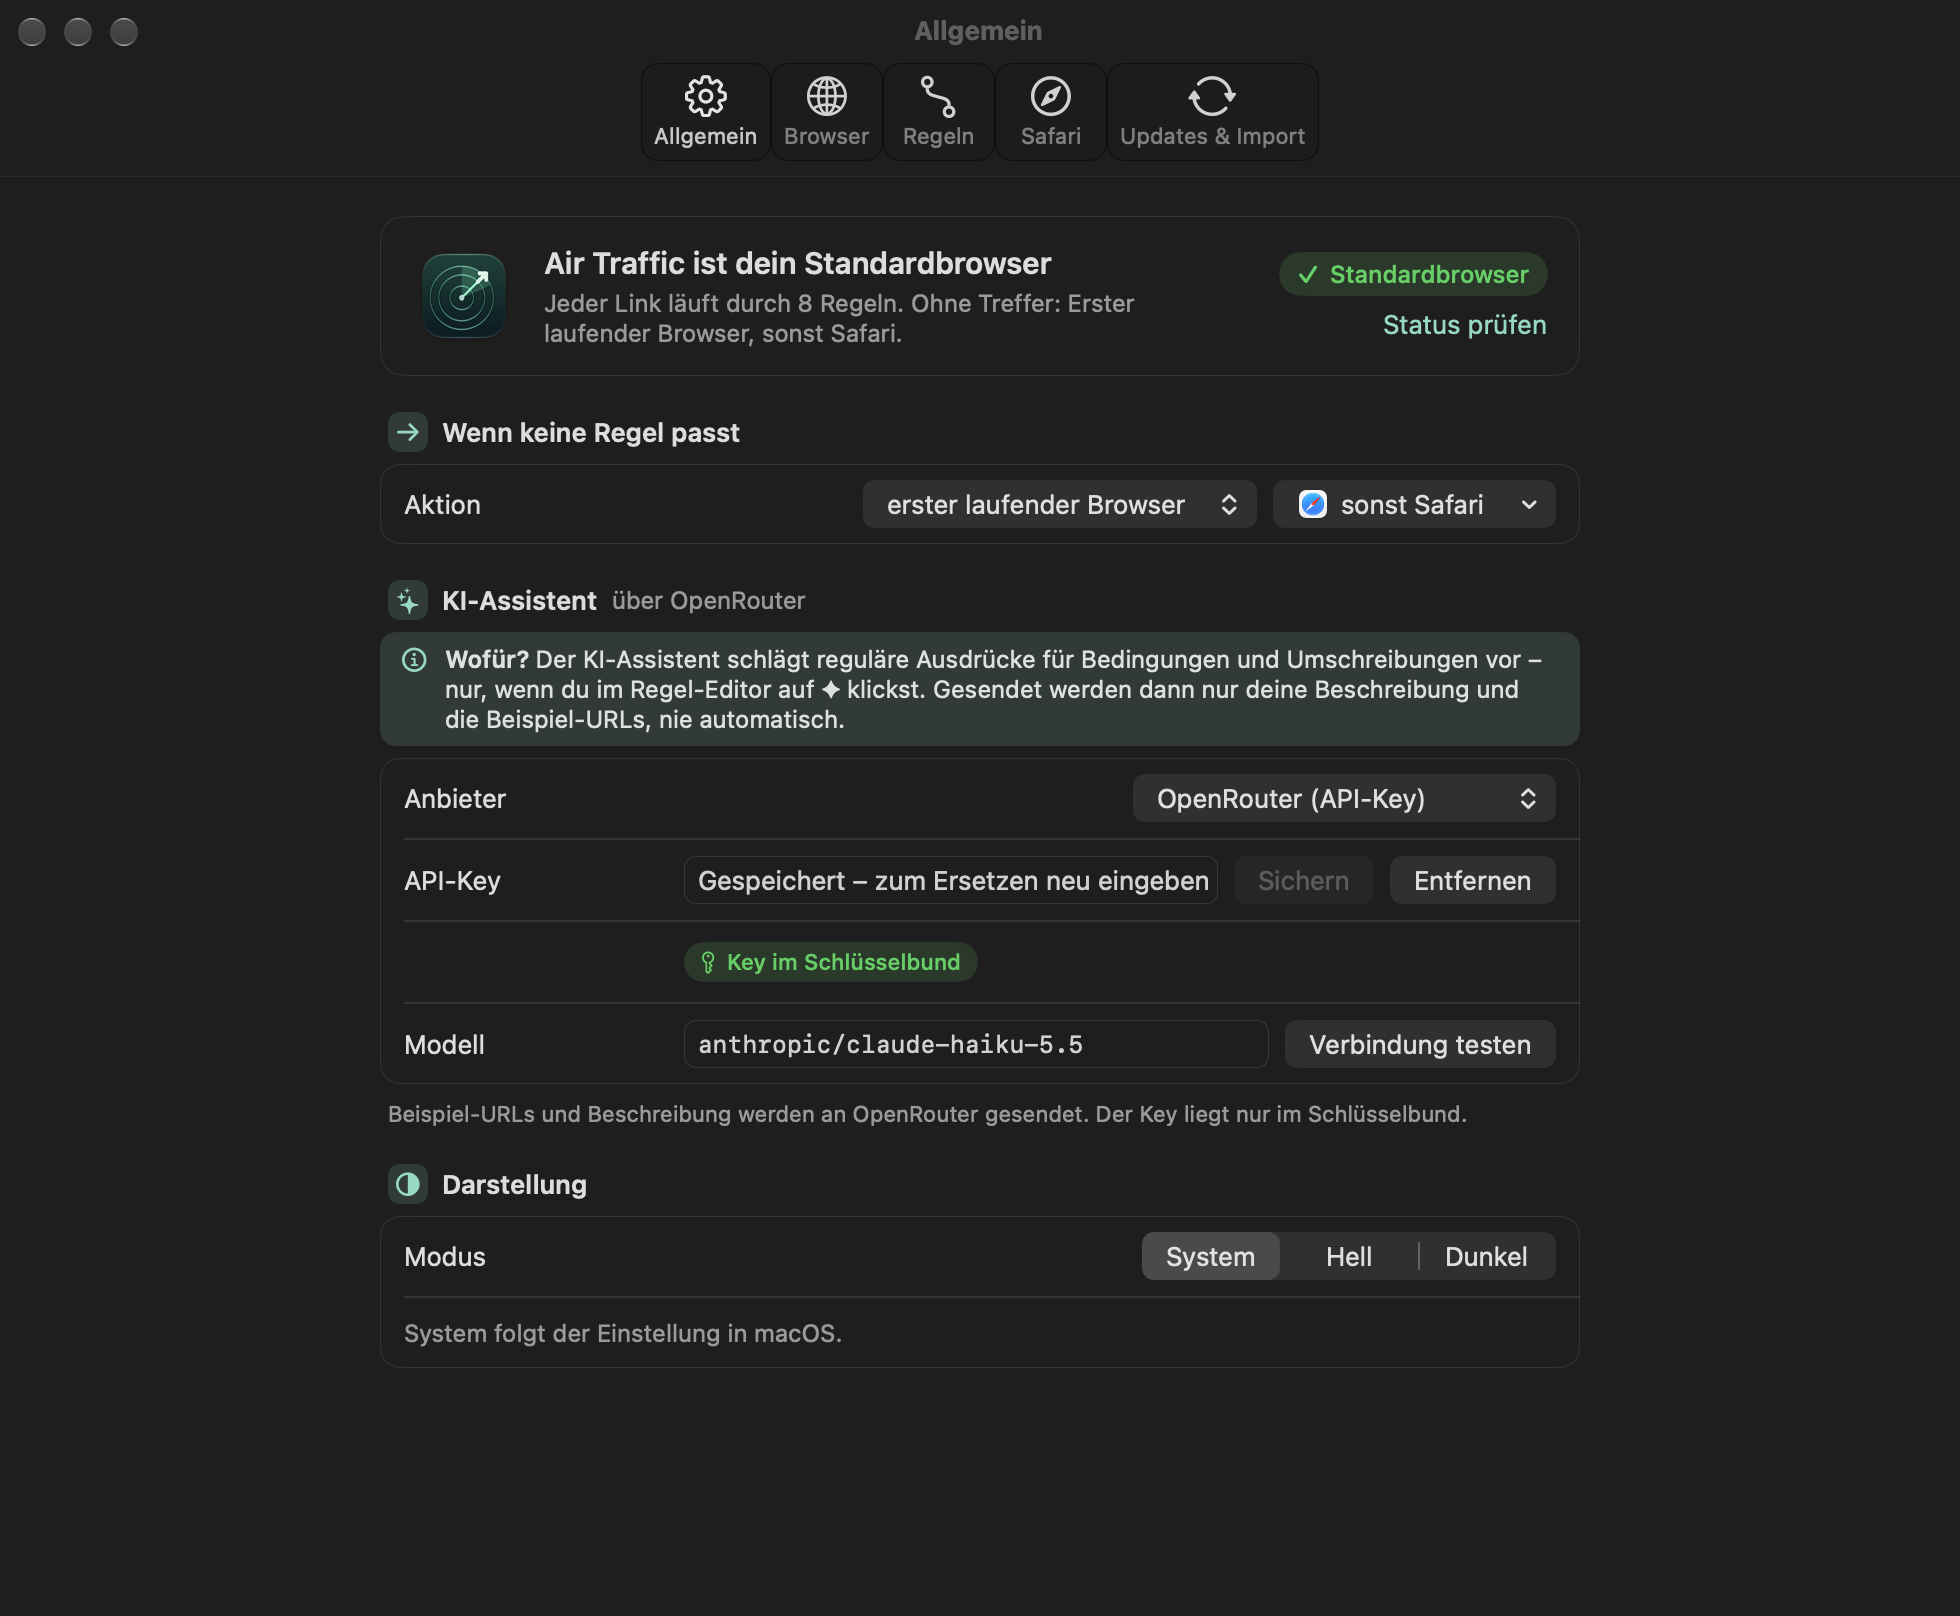
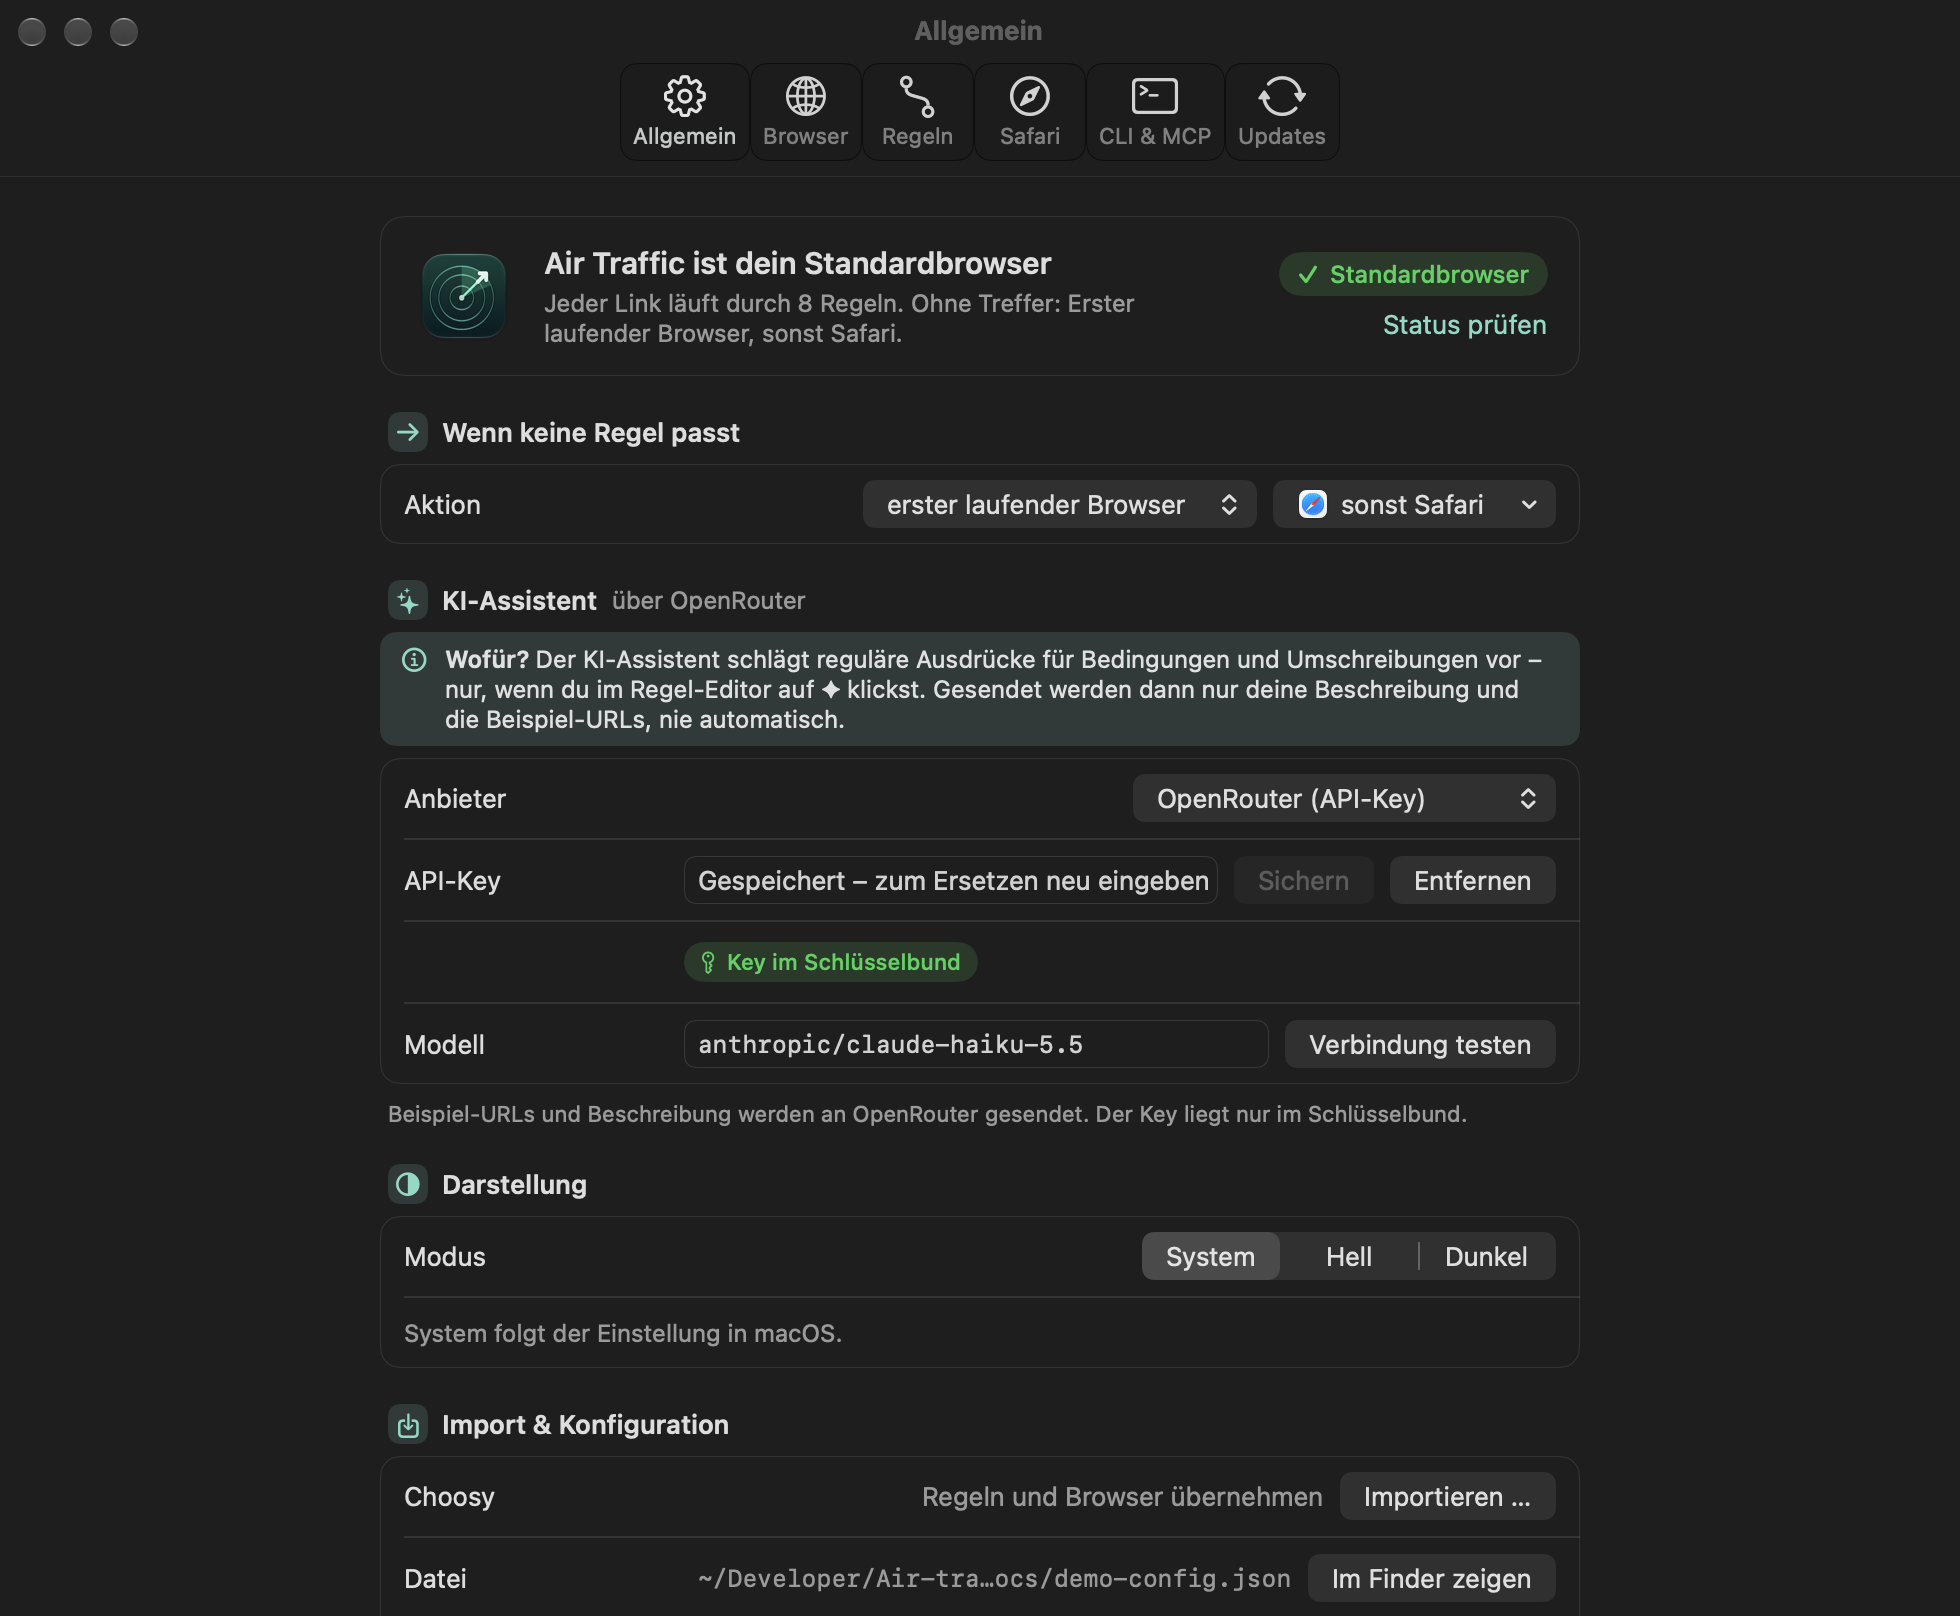
Tabs neu geordnet: „CLI & MCP“ eigener Tab, „Updates“ zuletzt, Import in Allgemein (§25)

diff --git a/App/Sources/SnapshotCommand.swift b/App/Sources/SnapshotCommand.swift
@@ -9,9 +9,9 @@ enum SnapshotCommand {
     static let flag = "--snapshot"
 
     private static let settingsSize = NSSize(width: 980, height: 720)
-    private static let fullPageSize = NSSize(width: 980, height: 800)
-    /// „Updates & Import“ mit allen drei Abschnitten inkl. „Kommandozeile & KI-Agenten“ (§24.8).
-    private static let maintenanceSize = NSSize(width: 980, height: 780)
+    private static let fullPageSize = NSSize(width: 980, height: 1100)
+    /// Tabs „CLI & MCP“ und „Updates“ (§25).
+    private static let smallPageSize = NSSize(width: 980, height: 620)
 
     static func run(arguments: [String]) async -> Int32 {
         guard let index = arguments.firstIndex(of: flag), arguments.indices.contains(index + 1) else {
@@ -50,7 +50,8 @@ enum SnapshotCommand {
                 ("general", .general, settingsSize, nil),
                 ("browsers", .browsers, settingsSize, nil),
                 ("safari", .safari, settingsSize, nil),
-                ("maintenance", .maintenance, maintenanceSize, nil),
+                ("cli", .cli, smallPageSize, nil),
+                ("updates", .updates, smallPageSize, nil),
                 ("rules", .rules, settingsSize, firstRuleWithTestURL(model.config)),
                 ("rules-min", .rules, SettingsWindowController.minSize, firstRuleWithTestURL(model.config)),
                 ("rules-shadow", .rules, settingsSize, firstShadowedRule(model.config)),

diff --git a/App/Sources/AppModel.swift b/App/Sources/AppModel.swift
@@ -4,7 +4,7 @@ import Observation
 
 /// Tabs des Einstellungsfensters in Toolbar-Reihenfolge (§23.5).
 enum SettingsTab: Hashable, CaseIterable {
-    case general, browsers, rules, safari, maintenance
+    case general, browsers, rules, safari, cli, updates
 
     var label: String {
         switch self {
@@ -12,7 +12,8 @@ enum SettingsTab: Hashable, CaseIterable {
         case .browsers: "Browser"
         case .rules: "Regeln"
         case .safari: "Safari"
-        case .maintenance: "Updates & Import"
+        case .cli: "CLI & MCP"
+        case .updates: "Updates"
         }
     }
 
@@ -22,7 +23,8 @@ enum SettingsTab: Hashable, CaseIterable {
         case .browsers: "globe"
         case .rules: "point.topleft.down.to.point.bottomright.curvepath"
         case .safari: "safari"
-        case .maintenance: "arrow.triangle.2.circlepath"
+        case .cli: "terminal"
+        case .updates: "arrow.triangle.2.circlepath"
         }
     }
 }

diff --git a/App/Sources/Settings/ImportSettingsSection.swift b/App/Sources/Settings/ImportSettingsSection.swift
@@ -2,21 +2,7 @@ import AirTrafficCore
 import AppKit
 import SwiftUI
 
-/// Einstellungen → „Updates & Import“ (§23.3, §24.7): Updates (§17), Kommandozeile & KI-Agenten
-/// sowie Import & Konfiguration.
-struct MaintenanceSettingsView: View {
-    @Bindable var model: AppModel
-
-    var body: some View {
-        SettingsPage {
-            UpdatesSettingsSection(updates: model.updates)
-            CommandLineSettingsSection()
-            ImportSettingsSection(model: model)
-        }
-    }
-}
-
-/// „Import & Konfiguration“: Choosy-Import, Datei-Pfad + „Im Finder zeigen“, „Air Traffic beenden“.
+/// Einstellungen → Allgemein, ganz unten (§25): „Import & Konfiguration“: Choosy-Import, Datei-Pfad + „Im Finder zeigen“, „Air Traffic beenden“.
 struct ImportSettingsSection: View {
     @Bindable var model: AppModel
     @State private var preview: ImportPreview?

diff --git a/App/Sources/Settings/GeneralSettingsView.swift b/App/Sources/Settings/GeneralSettingsView.swift
@@ -3,7 +3,7 @@ import AppKit
 import SwiftUI
 
 /// Einstellungen → Allgemein (§23.4): Problem-Hinweis · Status · „Wenn keine Regel passt“ ·
-/// KI-Assistent · Darstellung. Safari und Updates & Import haben eigene Tabs (§23.2, §23.3).
+/// KI-Assistent · Darstellung · Import & Konfiguration (§25). Safari, CLI & MCP und Updates haben eigene Tabs.
 struct GeneralSettingsView: View {
     @Bindable var model: AppModel
     @State private var isDefault = Apps.isAirTrafficDefaultBrowser
@@ -33,6 +33,8 @@ struct GeneralSettingsView: View {
             AssistantSettingsSection(model: model)
 
             appearanceSection
+
+            ImportSettingsSection(model: model)
         }
         .onAppear(perform: refresh)
         .onReceive(NotificationCenter.default.publisher(for: NSApplication.didBecomeActiveNotification)) { _ in

diff --git a/App/Sources/Settings/SettingsWindowController.swift b/App/Sources/Settings/SettingsWindowController.swift
@@ -88,7 +88,8 @@ final class SettingsTabViewController: NSTabViewController {
             case .browsers: add(BrowsersSettingsView(model: model), tab: tab)
             case .rules: add(RulesSettingsView(model: model), tab: tab)
             case .safari: add(SafariSettingsView(model: model), tab: tab)
-            case .maintenance: add(MaintenanceSettingsView(model: model), tab: tab)
+            case .cli: add(SettingsPage { CommandLineSettingsSection() }, tab: tab)
+            case .updates: add(SettingsPage { UpdatesSettingsSection(updates: model.updates) }, tab: tab)
             }
         }
     }

diff --git a/App/Sources/Settings/CommandLineSettingsSection.swift b/App/Sources/Settings/CommandLineSettingsSection.swift
@@ -2,7 +2,7 @@ import AirTrafficCore
 import AppKit
 import SwiftUI
 
-/// Einstellungen → „Updates & Import“ → „Kommandozeile & KI-Agenten“ (SPEC §24.7).
+/// Einstellungen → Tab „CLI & MCP“ (SPEC §24.7, §25).
 struct CommandLineSettingsSection: View {
     /// Symlink-Ort und Helper; Parameter, damit Snapshots und Tests nichts im echten Home anfassen müssen.
     var linkURL = CommandLineInstall.defaultLinkURL()

diff --git a/App/Sources/Settings/UpdatesSettingsSection.swift b/App/Sources/Settings/UpdatesSettingsSection.swift
@@ -1,6 +1,6 @@
 import SwiftUI
 
-/// Einstellungen → „Updates & Import“ → „Updates“ (SPEC §17, §23.3).
+/// Einstellungen → Tab „Updates“ (SPEC §17, §25).
 struct UpdatesSettingsSection: View {
     let updates: UpdateController?
 

diff --git a/README.md b/README.md
@@ -33,8 +33,8 @@ Standardaktion – zum Beispiel ein kleines Auswahlfenster mit allen Browsern.
   sobald weder Auswahlfenster noch Einstellungen offen sind.
 - **Hell und dunkel:** folgt standardmäßig macOS; unter Allgemein → Darstellung fest auf Hell oder Dunkel stellbar.
 
-Die Einstellungen haben fünf Tabs: **Allgemein** (Standardbrowser, Standardaktion, KI-Assistent,
-Darstellung), **Browser**, **Regeln**, **Safari** und **Updates & Import**.
+Die Einstellungen haben sechs Tabs: **Allgemein** (Standardbrowser, Standardaktion, KI-Assistent,
+Darstellung, Choosy-Import und Konfigurationsdatei), **Browser**, **Regeln**, **Safari**, **CLI & MCP** und **Updates**.
 
 | Auswahlfenster | Allgemein |
 |---|---|
@@ -48,9 +48,9 @@ Darstellung), **Browser**, **Regeln**, **Safari** und **Updates & Import**.
 |---|---|
 | ![Browser](docs/images/browsers-light.png) | ![KI-Assistent](docs/images/assistant-light.png) |
 
-| Safari | Updates & Import |
+| Safari | CLI & MCP |
 |---|---|
-| ![Safari](docs/images/safari-light.png) | ![Updates & Import](docs/images/maintenance-light.png) |
+| ![Safari](docs/images/safari-light.png) | ![CLI & MCP](docs/images/cli-light.png) |
 
 Alle Screenshots stammen aus der neutralen Beispiel-Konfiguration [`docs/demo-config.json`](docs/demo-config.json).
 
@@ -93,8 +93,7 @@ Die App bringt das Programm `airtraffic` mit (`Air Traffic.app/Contents/Helpers/
 lassen sich Regeln im Terminal auflisten, prüfen, anlegen, ändern, umsortieren und löschen – mit
 derselben Logik wie die App. `airtraffic mcp` macht dasselbe als MCP-Server für KI-Agenten.
 
-**Installieren:** Einstellungen → Tab **Updates & Import** → „Kommandozeile & KI-Agenten“ →
-„Installieren“. Das legt den Symlink `~/.local/bin/airtraffic` an (kein Administrator nötig);
+**Installieren:** Einstellungen → Tab **CLI & MCP** → „Installieren“. Das legt den Symlink `~/.local/bin/airtraffic` an (kein Administrator nötig);
 „Entfernen“ löscht nur diesen Symlink. Fehlt `~/.local/bin` im `PATH`, zeigt die App die Zeile für
 `~/.zshrc`: `export PATH="$HOME/.local/bin:$PATH"`.
 

diff --git a/docs/SPEC.md b/docs/SPEC.md
@@ -572,3 +572,11 @@ Tab „Updates & Import“, neuer Abschnitt „Kommandozeile & KI-Agenten“ (`t
 - README: Abschnitt „Kommandozeile & KI-Agenten“ mit Installation, Beispielen, MCP-Einbindung.
 - `--snapshot`: Tab „Updates & Import“ mit neuem Abschnitt.
 - Nicht-Ziele: Browserliste, Standardaktion, KI-Einstellungen per CLI ändern; Netzwerk-Transport (HTTP/SSE); Authentifizierung.
+
+## 25. Tabs neu geordnet (v1.8)
+
+Ersetzt die Tab-Aufteilung aus §23.3/§24.7:
+- Tabs: Allgemein · Browser · Regeln · Safari · **CLI & MCP** (`terminal`) · **Updates** (`arrow.triangle.2.circlepath`, immer zuletzt). `SettingsTab`: `general, browsers, rules, safari, cli, updates`.
+- „CLI & MCP“ enthält den Abschnitt „Kommandozeile & KI-Agenten“ (§24.7), „Updates“ nur den Abschnitt Updates (§17).
+- „Import & Konfiguration“ (Choosy-Import, Datei-Pfad, „Air Traffic beenden“) steht wieder in **Allgemein, ganz unten** (nach Darstellung).
+- `--snapshot`: `cli-*`, `updates-*` statt `maintenance-*`; `general-full-*` zeigt Allgemein vollständig.
